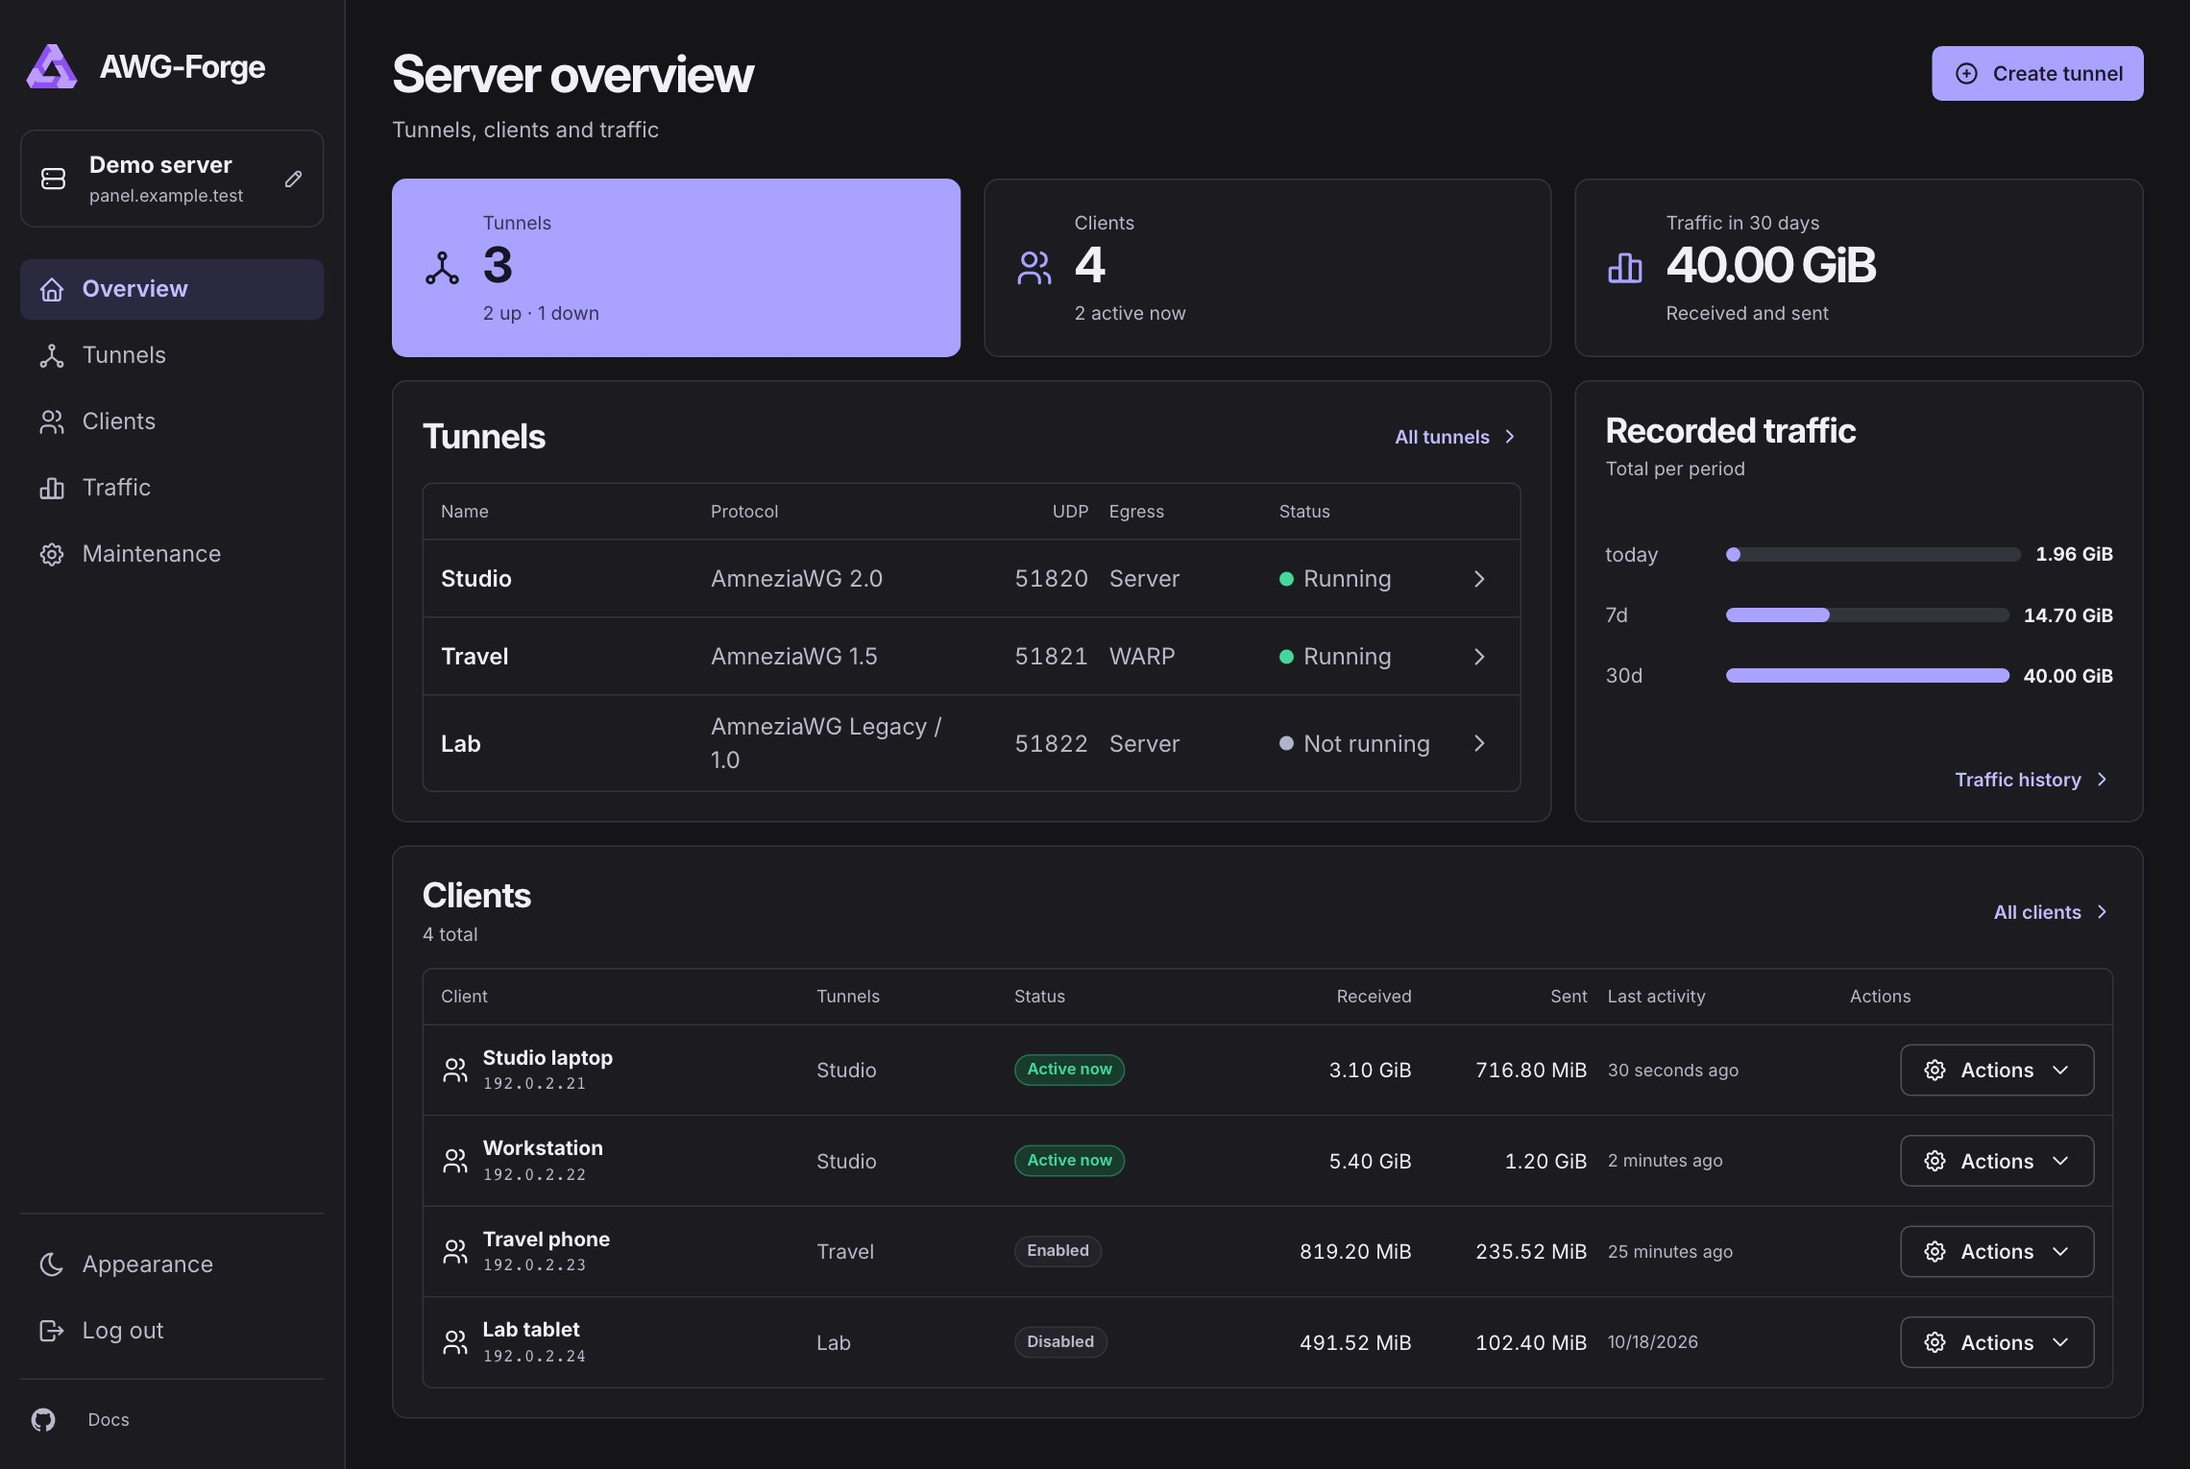
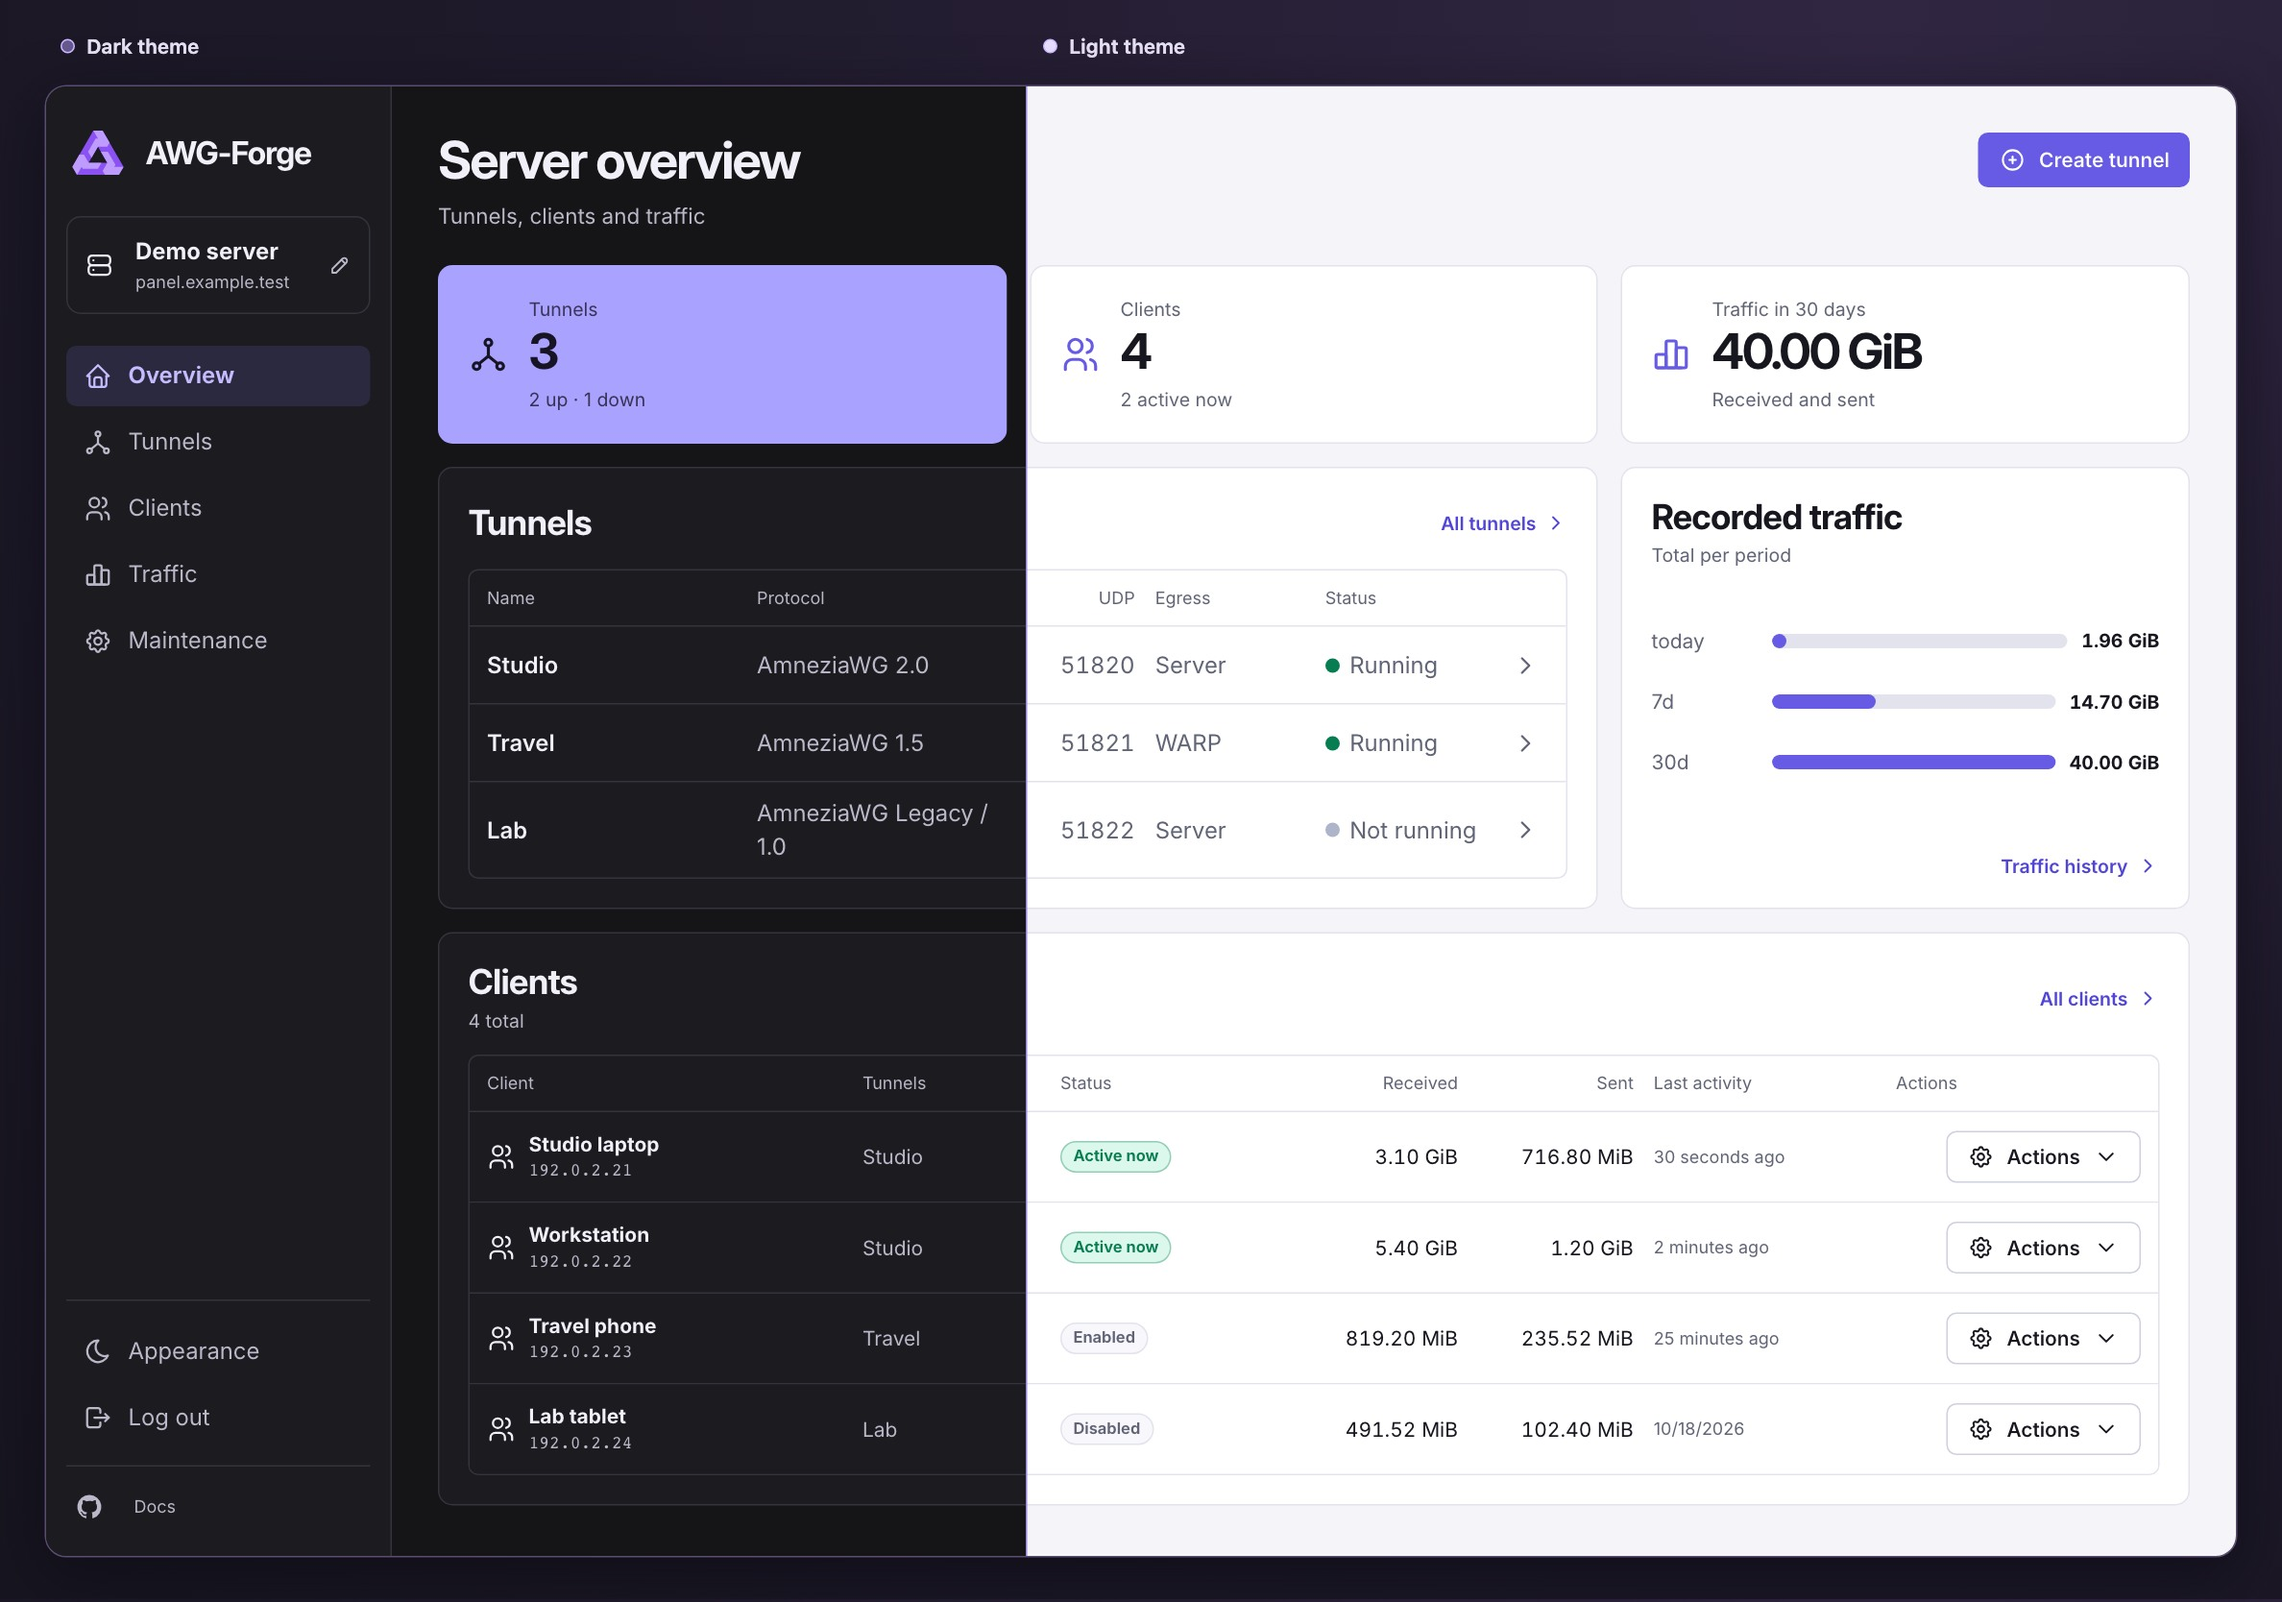
docs: show dark and light dashboard themes together

diff --git a/README.md b/README.md
@@ -4,7 +4,7 @@
 
 Панель управления AmneziaWG на своём сервере. В одном Docker-образе есть веб-интерфейс, CLI и инструменты для запуска туннелей.
 
-![Главный экран AWG-Forge](docs/assets/awg-forge-dashboard.jpg)
+![Обзор AWG-Forge в тёмной и светлой темах с демоданными](docs/assets/awg-forge-dashboard.jpg)
 
 ## Возможности
 

diff --git a/README.en.md b/README.en.md
@@ -4,7 +4,7 @@
 
 Manage AmneziaWG on your own server. One Docker image includes the web interface, CLI, and tools to run tunnels.
 
-![AWG-Forge dashboard](docs/assets/awg-forge-dashboard.jpg)
+![AWG-Forge dashboard in dark and light themes with demo data](docs/assets/awg-forge-dashboard.jpg)
 
 ## Features
 
